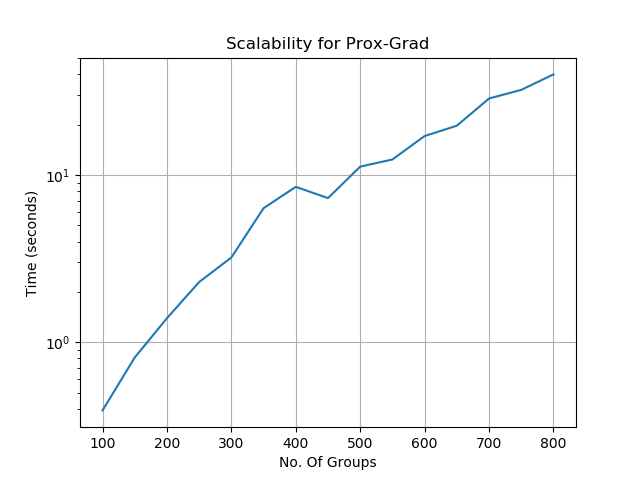
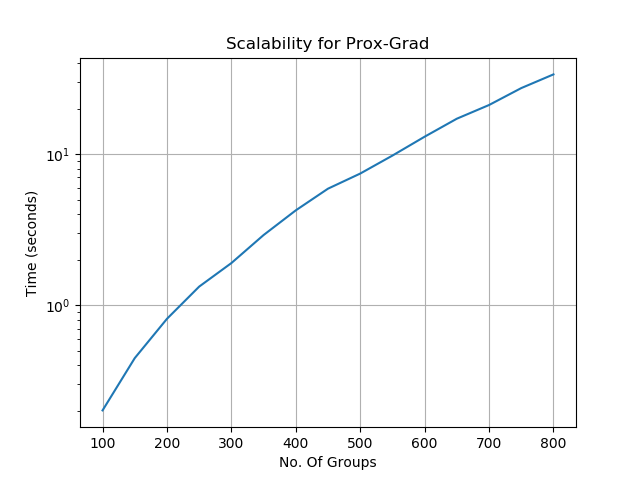
runtime optimization

diff --git a/proxregression.py b/proxregression.py
@@ -133,12 +133,17 @@ def gen_opt_alpha(beta, groups, sparsity_param, mu):
 
 
 # Equation 9
-def f_squiggle_gradient(x, y, b, c, groups, sparsity_param, mu):
+def f_squiggle_gradient(x, y, b, c, groups, sparsity_param, mu, term_xx, term_xy):
     opt_alpha = gen_opt_alpha(b, groups, sparsity_param, mu)
     term2 = np.matmul(np.transpose(c), opt_alpha) #TODO check dimensions
-    term1 = np.matmul(np.transpose(x), ((np.matmul(x, b)) - y))
+    # term1 = np.matmul(np.transpose(x), ((np.matmul(x, b)) - y))
+    term1 = np.matmul(term_xx, b) - term_xy
     return term1 + term2
 
+def term1_s_gradient(x,y):
+    term_xx = np.matmul(np.transpose(x), x)
+    term_xy = np.matmul(np.transpose(x), y)
+    return term_xx, term_xy
 
 def test_convergence(t, params, betas_t, weights_t, z_t, gradient_t):
     if (t<2):
@@ -190,9 +195,12 @@ def learn(x, y, groups, params):
 
     start = datetime.datetime.now()
     t = 0
+
+    (term_xx, term_xy) = term1_s_gradient(x, y)
+
     while True:
         #step 1
-        gradient_t.append(f_squiggle_gradient(x, y, weights_t[t], c, groups, params.sparsity_param, mu))
+        gradient_t.append(f_squiggle_gradient(x, y, weights_t[t], c, groups, params.sparsity_param, mu, term_xx, term_xy))
         #gradient_t.append(f_squiggle_gradient(x, y, beta_t[t], groups, sparsity_param, mu)) #TODO delete
         #step 2
         #print("gradient/lip_constant", gradient, lip_constant, gradient/lip_constant)

diff --git a/analyze_runtime2.py b/analyze_runtime2.py
@@ -24,20 +24,20 @@ if __name__ == "__main__":
     params.num_examples = 500
     time =[]
     n =[]
-    for x in range(5):
+    for x in range(4):
         params.num_examples += 500
         params.num_groups = 200
         params.group_size = 10
         params.group_overlap = 3
         params.sparsity_param = 0.0001#20
-        params.training_feature_sparsity = 10  # 1000
+        params.training_feature_sparsity = 2  # 1000
         params.desired_accuracy = 10  # 1000
         params.convergence_limit = 0.001 / params.desired_accuracy
         params.noise_variance = 0.1  # 0.1 # 0.0
         params.time_limit = 8000
 
         # tools.banner("...:")
-        (runtime, cycles, avg_error, convergence_type) = experiment_with_fixed_params(params, tools.continuous_structure_beta)
+        (runtime, cycles, avg_error, convergence_type) = experiment_with_fixed_params(params, tools.seperate_structure_beta)
         time.append(runtime/1000)
         n.append(params.num_examples)
     # tools.banner("...:")
@@ -54,7 +54,7 @@ if __name__ == "__main__":
 # Note that using plt.subplots below is equivalent to using
 # fig = plt.figure and then ax = fig.add_subplot(111)
 fig, ax = plt.subplots()
-ax.plot(n, time)
+ax.semilogy(n, time)
 
 ax.set(xlabel='No. Of Examples', ylabel='Time (seconds)',
        title='Scalability for Prox-Grad')
